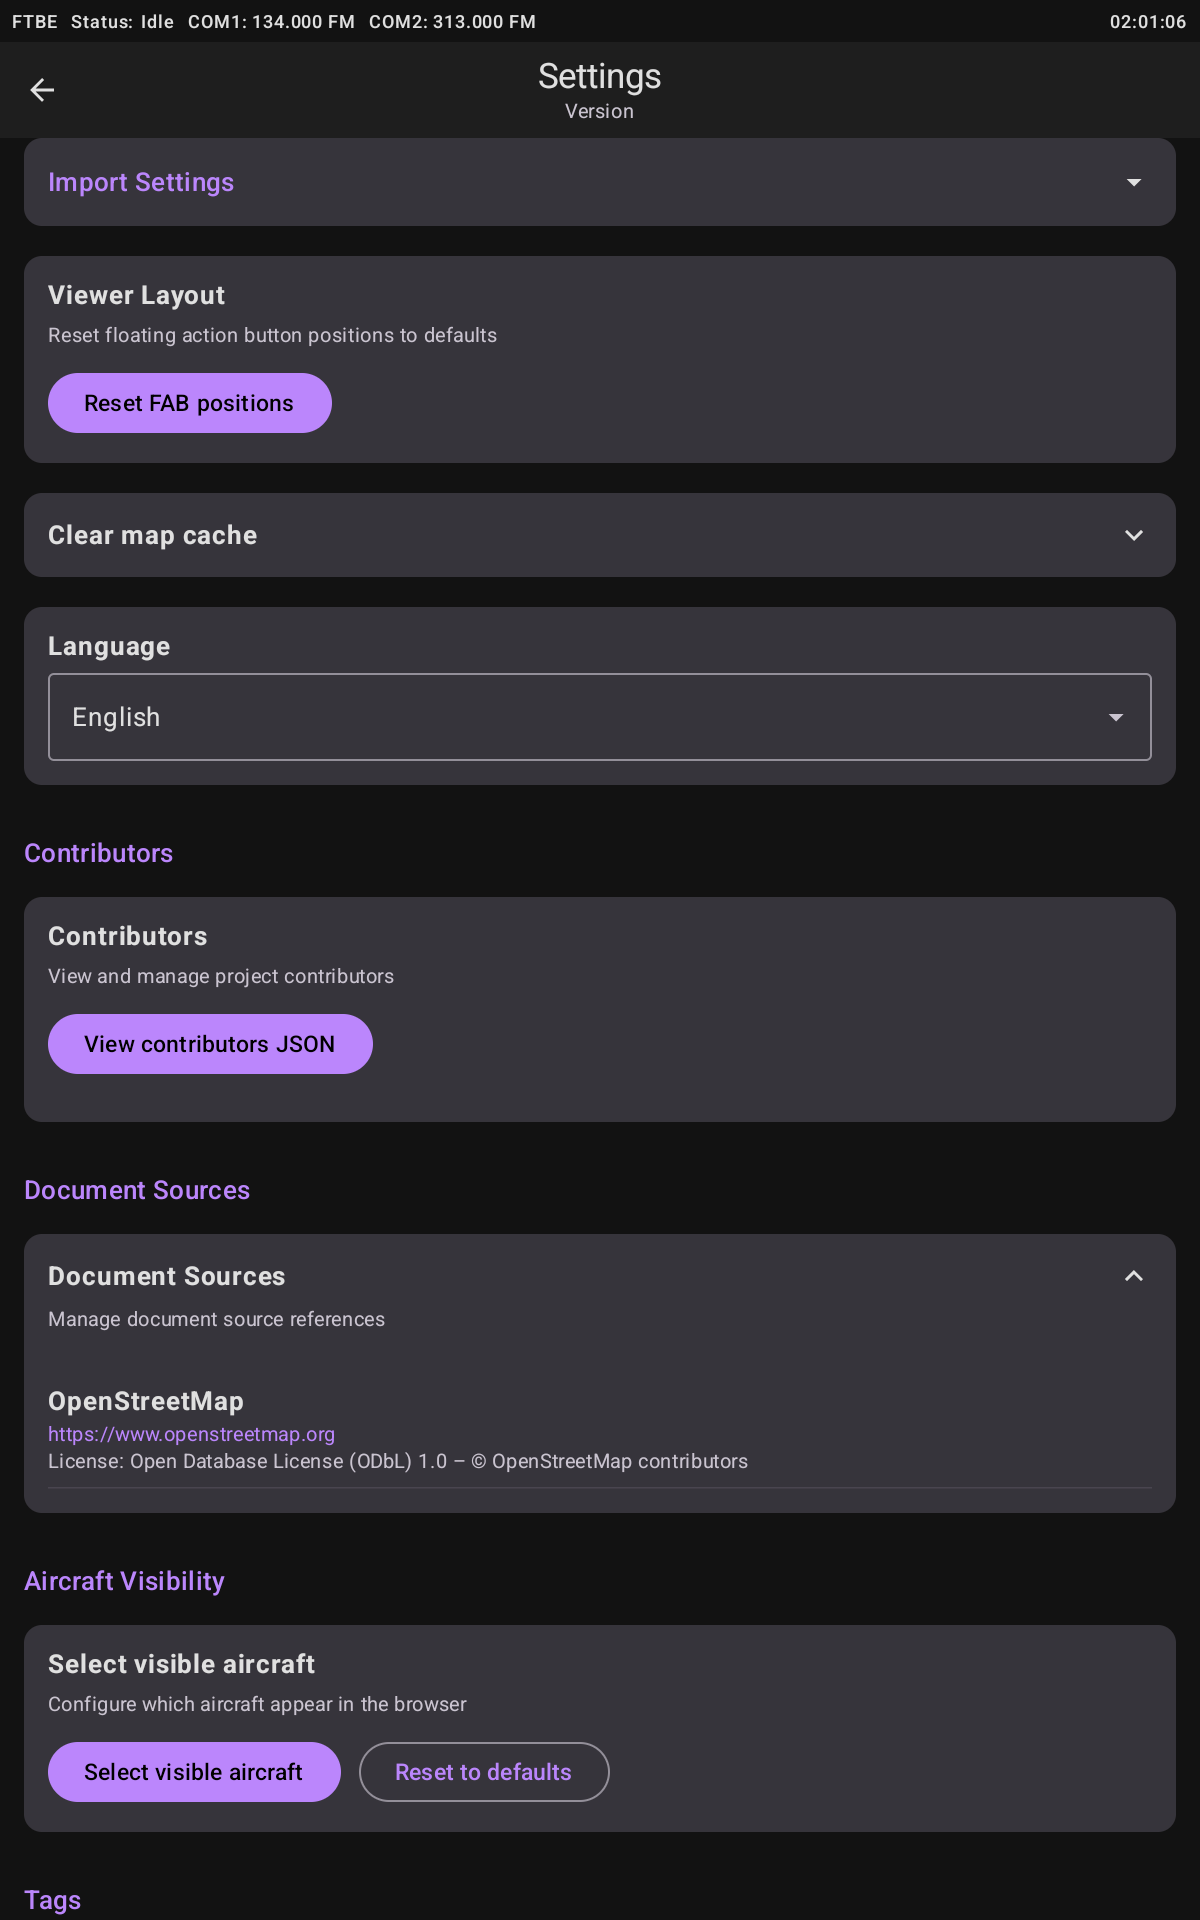
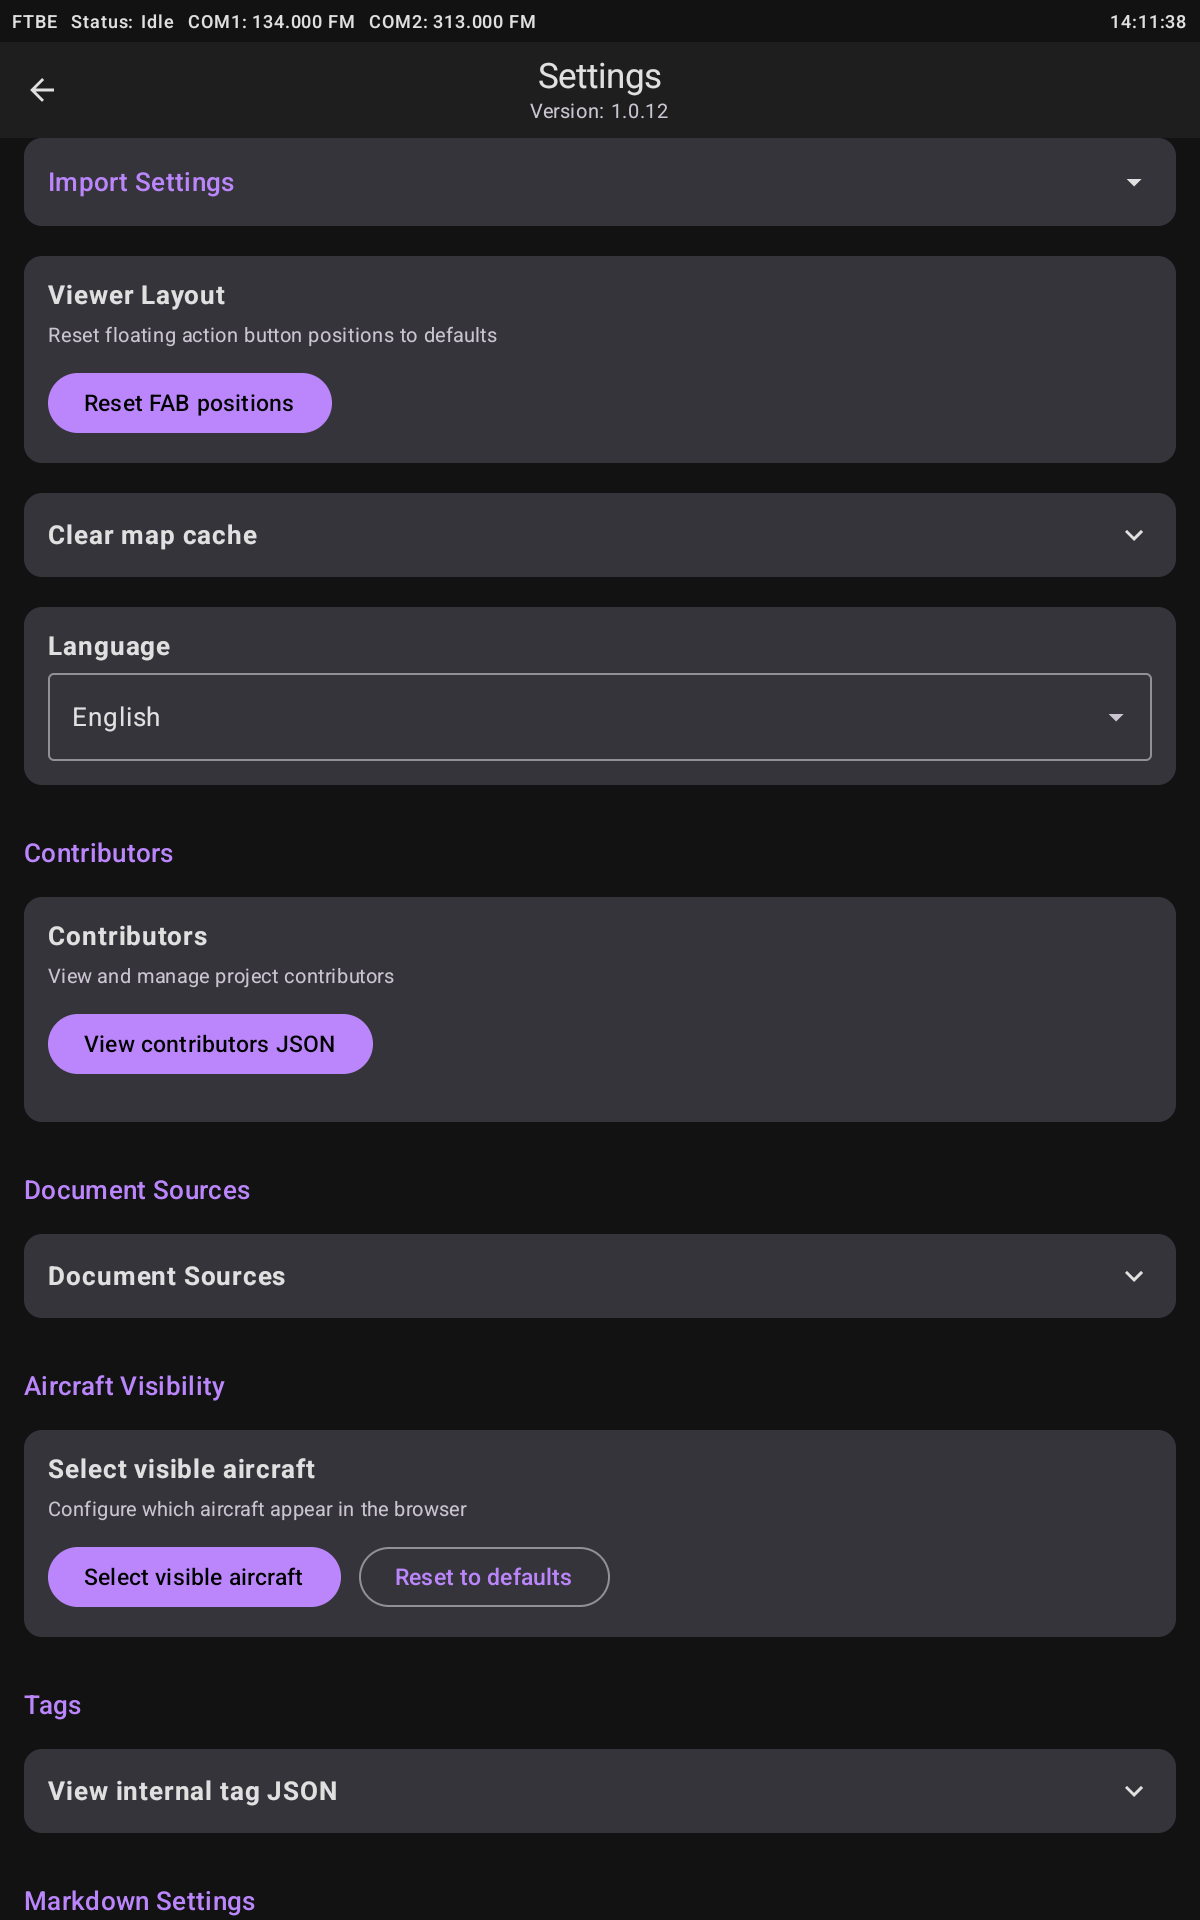
updated the CodeQL workflow to use manual Gradle build steps and hardened the DataPad receiver by reducing sensitive logging, defaulting bind to localhost, and adding opt‑in environment variables for full logs or binding to all interfaces.

diff --git a/app/src/main/java/com/example/checklist_interactive/ui/datapad/DataPadPopup.kt b/app/src/main/java/com/example/checklist_interactive/ui/datapad/DataPadPopup.kt
@@ -37,6 +37,7 @@ import androidx.core.view.WindowInsetsCompat
 import android.view.View
 import androidx.compose.material3.rememberModalBottomSheetState
 import androidx.compose.material3.ModalBottomSheet
+import androidx.compose.material3.SheetValue
 import androidx.compose.ui.platform.LocalDensity
 import com.example.checklist_interactive.data.datapad.FlightData
 import com.example.checklist_interactive.R
@@ -90,7 +91,10 @@ fun DataPadPopup(
     val sheetMax = 0.95f
     var sheetFraction by rememberSaveable { mutableStateOf(savedFraction.coerceIn(sheetMin, sheetMax)) }
 
-    val sheetState = rememberModalBottomSheetState(skipPartiallyExpanded = true)
+    val sheetState = rememberModalBottomSheetState(
+        skipPartiallyExpanded = true,
+        confirmValueChange = { it != SheetValue.Hidden }
+    )
     val configuration = LocalConfiguration.current
     val sheetHeightDp = (configuration.screenHeightDp.toFloat() * sheetFraction).dp
     val view = LocalView.current
@@ -222,20 +226,34 @@ fun DataPadPopup(
             .height(sheetHeightDp)
             .padding(horizontal = 16.dp)
         ) {
-            // Drag handle at top (drag vertically to resize)
+            // Drag handle at top (drag vertically to resize and swipe down from the handle to dismiss)
             Box(
                 modifier = Modifier
                     .fillMaxWidth()
                     .height(28.dp)
                     .pointerInput(Unit) {
+                        var dragAccum = 0f
                         detectDragGestures(
+                            onDragStart = { dragAccum = 0f },
                             onDrag = { change: PointerInputChange, dragAmount: Offset ->
+                                // accumulate vertical displacement (positive = downward)
+                                dragAccum += dragAmount.y
                                 val screenPx = with(density) { configuration.screenHeightDp.dp.toPx() }
                                 val fracDelta = dragAmount.y / screenPx
                                 sheetFraction = (sheetFraction - fracDelta).coerceIn(sheetMin, sheetMax)
                             },
                             onDragEnd = {
+                                // persist saved fraction
                                 prefs.edit().putFloat(KEY_SHEET_FRACTION, sheetFraction).apply()
+                                // If user swiped down sufficiently on the handle, dismiss the sheet
+                                val threshold = with(density) { 64.dp.toPx() } // about 64dp downward to dismiss
+                                if (dragAccum > threshold) {
+                                    onDismiss()
+                                }
+                                dragAccum = 0f
+                            },
+                            onDragCancel = {
+                                dragAccum = 0f
                             }
                         )
                     }

diff --git a/app/src/main/java/com/example/checklist_interactive/ui/quickaccess/QuickAccessSheet.kt b/app/src/main/java/com/example/checklist_interactive/ui/quickaccess/QuickAccessSheet.kt
@@ -555,8 +555,10 @@ fun QuickAccessSheet(
                 } else {
                     if (strokesState.isNotEmpty()) {
                         val drawingJson = json.encodeToString(strokesState.toList())
-                        if (id != null) noteManager.saveDrawing(id, drawingJson)
+                        if (id != null) {
+                            noteManager.saveDrawing(id, drawingJson)
                             drawingDirty = false
+                        }
                     }
                 }
 

diff --git a/scripts/MapDatabaseTools/datapad_receiver.py b/scripts/MapDatabaseTools/datapad_receiver.py
@@ -14,11 +14,13 @@ from cryptography.hazmat.primitives.ciphers.aead import AESGCM
 from cryptography.hazmat.backends import default_backend
 import threading
 import time
+import os
 
 
 # Default settings (matching Kotlin app)
 DEFAULT_UDP_PORT = 5010
-DEFAULT_BIND_IP = "0.0.0.0"  # Listen on all interfaces
+# Default to localhost for safety; binding to all interfaces (0.0.0.0) is potentially unsafe.
+DEFAULT_BIND_IP = "127.0.0.1"  # Listen on localhost by default
 DEFAULT_PRE_SHARED_KEY = "DCS_DataPad_Secret_Key_32BYTES!!"
 BUFFER_SIZE = 4096
 SOCKET_TIMEOUT = 1.0
@@ -183,10 +185,14 @@ class DataPadReceiver:
     
     def __init__(self, port: int = DEFAULT_UDP_PORT, 
                  bind_ip: str = DEFAULT_BIND_IP,
-                 pre_shared_key: str = DEFAULT_PRE_SHARED_KEY):
+                 pre_shared_key: str = DEFAULT_PRE_SHARED_KEY,
+                 show_sensitive: bool = False,
+                 allow_bind_all: bool = False):
         self.port = port
         self.bind_ip = bind_ip
         self.pre_shared_key = pre_shared_key.encode('utf-8')
+        self.show_sensitive = show_sensitive
+        self.allow_bind_all = allow_bind_all  # must be explicitly set to allow binding to 0.0.0.0
         
         self.socket: Optional[socket.socket] = None
         self.running = False
@@ -268,8 +274,14 @@ class DataPadReceiver:
         self.running = True
         self.receive_thread = threading.Thread(target=self._receive_loop, daemon=True)
         self.receive_thread.start()
-        print(f"DataPad receiver started on {self.bind_ip}:{self.port}")
-        print(f"Local IP: {self.get_local_ip()}")
+        if self.show_sensitive:
+            print(f"DataPad receiver started on {self.bind_ip}:{self.port}")
+            print(f"Local IP: {self.get_local_ip()}")
+        else:
+            print(f"DataPad receiver started on port {self.port}")
+            print("Local IP: [REDACTED]")
+        if self.bind_ip == "0.0.0.0" and not self.allow_bind_all and os.getenv("DATAPAD_ALLOW_BIND_ALL", "0") != "1":
+            print("WARNING: requested bind to 0.0.0.0 but allow_bind_all is not enabled. For safety, the receiver will bind to localhost instead. To allow binding to all interfaces set DATAPAD_ALLOW_BIND_ALL=1 or pass allow_bind_all=True to the constructor.")
     
     def stop(self):
         """Stop listening for UDP packets"""
@@ -290,13 +302,25 @@ class DataPadReceiver:
             self.socket.setsockopt(socket.SOL_SOCKET, socket.SO_REUSEADDR, 1)
             self.socket.settimeout(SOCKET_TIMEOUT)
             
-            # Bind to address
-            if self.bind_ip:
-                self.socket.bind((self.bind_ip, self.port))
+            # Bind to address with safety checks (avoid binding to all interfaces by default)
+            bind_target = self.bind_ip
+            if bind_target == "0.0.0.0":
+                env_allow = os.getenv("DATAPAD_ALLOW_BIND_ALL", "0") == "1"
+                if not (self.allow_bind_all or env_allow):
+                    # Override to localhost for safety
+                    print("WARN: binding to all interfaces (0.0.0.0) is disabled by default for security. Binding to localhost instead.")
+                    bind_target = "127.0.0.1"
+                else:
+                    print("WARN: binding to all interfaces (0.0.0.0) as explicitly allowed by configuration")
+
+            self.socket.bind((bind_target, self.port))
+            if self.show_sensitive:
+                print(f"UDP socket opened on {bind_target}:{self.port}")
             else:
-                self.socket.bind(('0.0.0.0', self.port))
-            
-            print(f"UDP socket opened on {self.bind_ip}:{self.port}")
+                if bind_target in ("127.0.0.1", "localhost"):
+                    print(f"UDP socket opened on localhost:{self.port}")
+                else:
+                    print(f"UDP socket opened on port {self.port}")
             print(f"Waiting for encrypted UDP packets...")
             
             consecutive_timeouts = 0
@@ -305,7 +329,10 @@ class DataPadReceiver:
                 try:
                     # Receive UDP packet
                     data, addr = self.socket.recvfrom(BUFFER_SIZE)
-                    print(f"Received {len(data)} bytes from {addr}")
+                    if self.show_sensitive:
+                        print(f"Received {len(data)} bytes from {addr}")
+                    else:
+                        print(f"Received {len(data)} bytes")
                     
                     # Try to decrypt
                     decrypted_data = self.decrypt_payload(data)
@@ -366,7 +393,10 @@ class DataPadReceiver:
 
 if __name__ == "__main__":
     # Simple test without GUI
-    receiver = DataPadReceiver()
+    # Opt-in: only print sensitive details (exact location/IP) if env var DATAPAD_DEBUG_SHOW_SENSITIVE=1
+    show_sensitive = os.getenv("DATAPAD_DEBUG_SHOW_SENSITIVE", "0") == "1"
+    allow_bind_all = os.getenv("DATAPAD_ALLOW_BIND_ALL", "0") == "1"
+    receiver = DataPadReceiver(show_sensitive=show_sensitive, allow_bind_all=allow_bind_all)
     
     def on_data(flight_data):
         print(f"\n=== Flight Data Update ===")
@@ -374,7 +404,11 @@ if __name__ == "__main__":
         print(f"Altitude: {flight_data.altitude:.1f} m")
         print(f"Speed: {flight_data.groundSpeed:.1f} m/s" if flight_data.groundSpeed else "Speed: N/A")
         print(f"Heading: {flight_data.heading:.1f}°")
-        print(f"Lat/Long: {flight_data.latitude:.6f}, {flight_data.longitude:.6f}")
+        if show_sensitive:
+            print(f"Lat/Long: {flight_data.latitude:.6f}, {flight_data.longitude:.6f}")
+        else:
+            # Reduce precision to protect exact location in logs
+            print(f"Lat/Long: {flight_data.latitude:.2f}, {flight_data.longitude:.2f} (rounded for privacy)")
     
     def on_connection(connected):
         status = "CONNECTED" if connected else "DISCONNECTED"